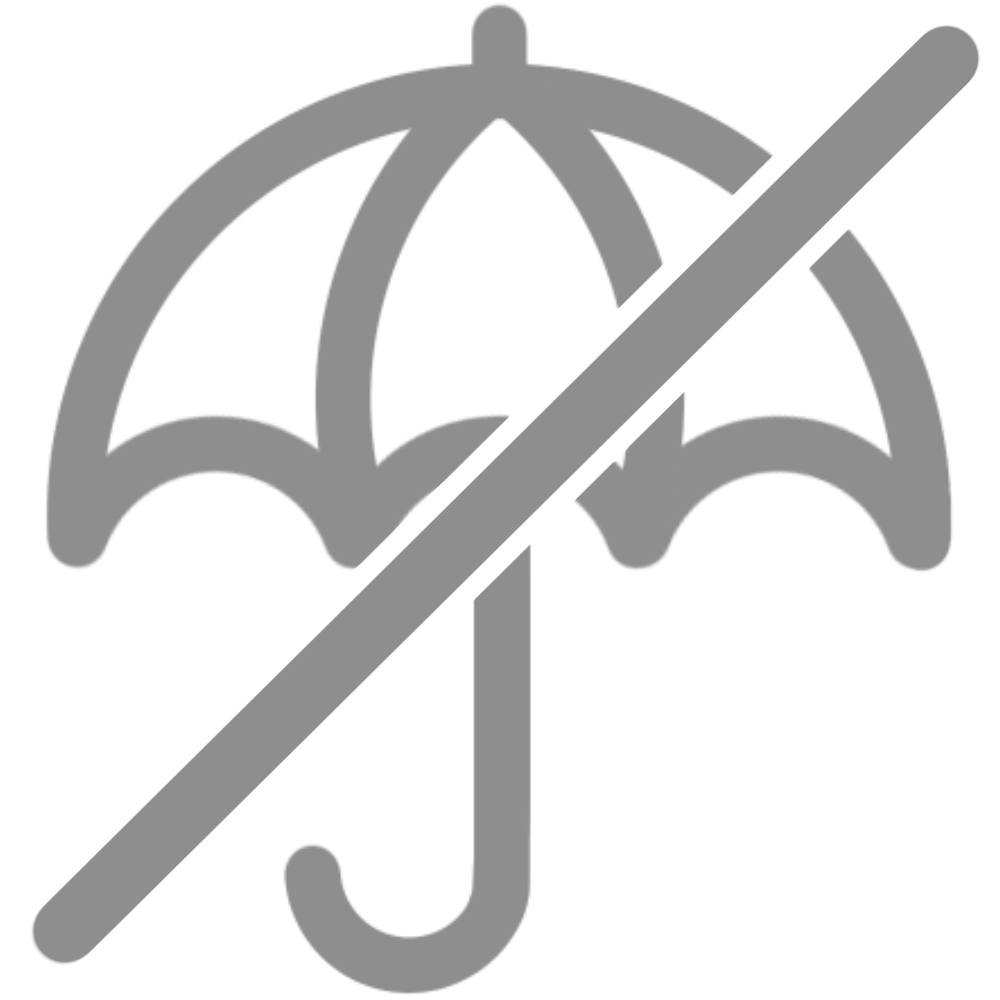
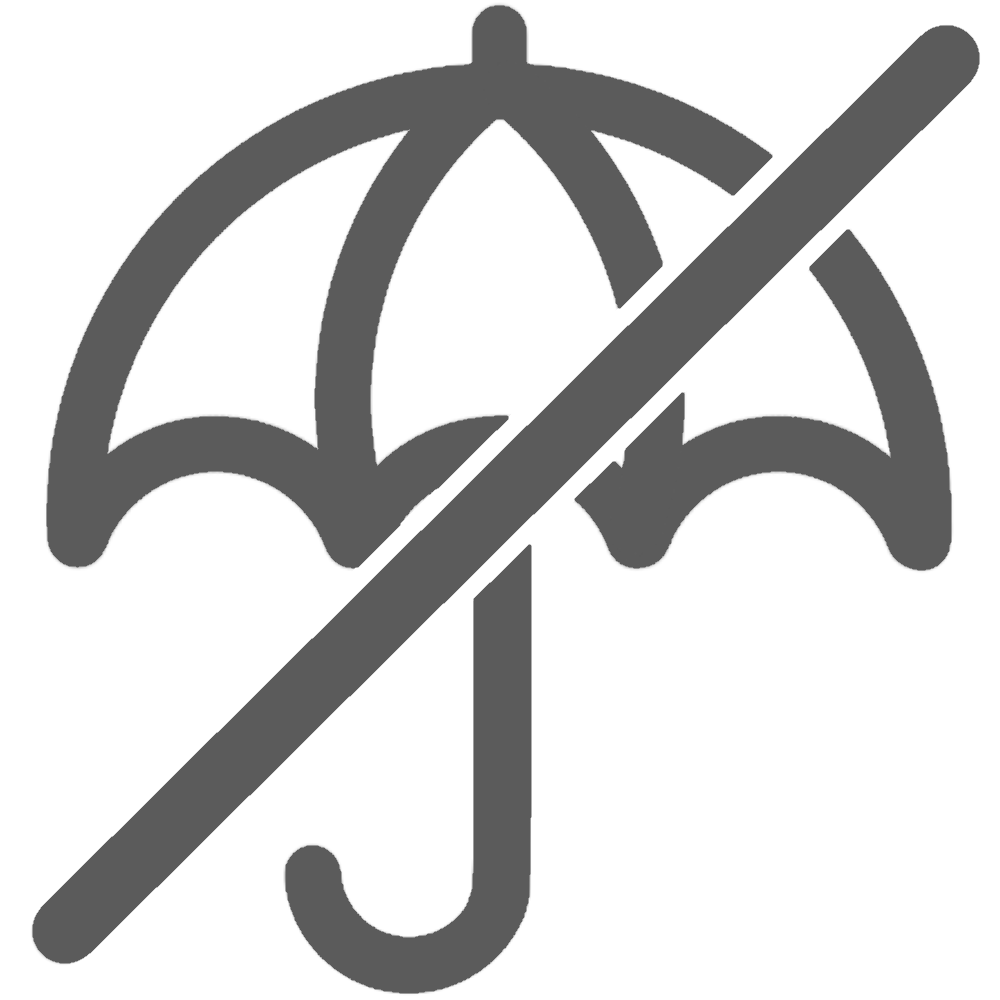
カラー表示に対応&表示の修正

Changed region(s): [[0.031, 0.0, 0.992, 1.0]]

diff --git a/js/index.js b/js/index.js
@@ -116,9 +116,14 @@ function getWeatherDescription(weatherCode) {
 }
 
 let day = 1 //yesterday = 0; today = 1; tommorow = 2;
+let colorIcon = true;
+let colorFont = true;
 function detail() {
     document.getElementById('latitude').textContent = locationData['latitude'];
     document.getElementById('longitude').textContent = locationData['longitude'];
+
+    document.getElementById('maxTempRound').style.color = colorFont ? "orangered" : "#5B5B5B";
+    document.getElementById('minTempRound').style.color = colorFont ? "#0d6efd" : "#5B5B5B";
 
     for (let i = 0; i < 2; i++) {
         document.getElementsByClassName('address')[i].textContent = locationData['address'];
@@ -127,7 +132,8 @@ function detail() {
     let weatherData = weatherDataList[day];
     let weatherDescription = getWeatherDescription(weatherData['weather_code']);
     if (weatherDescription.isUmbrellaRequired === 0) {
-        document.getElementById('image').innerHTML = '<img src="img/rain.png" alt="雨の画像" class="img-fluid mx-auto d-block" style="max-width: 100%; max-height: 200px; height: auto;">';
+        document.getElementById('image').innerHTML = 
+        colorIcon ? '<img src="img/rain_color.png" alt="雨の画像" class="img-fluid mx-auto d-block" style="max-width: 100%; max-height: 200px; height: auto;">' : '<img src="img/rain.png" alt="雨の画像" class="img-fluid mx-auto d-block" style="max-width: 100%; max-height: 200px; height: auto;">';
         document.getElementById('need').innerHTML = '<strong>傘が必要です</strong>';
     }
     else if (weatherDescription.isUmbrellaRequired === 1) {
@@ -135,11 +141,17 @@ function detail() {
         document.getElementById('need').innerHTML = '傘は不要です';
     }
     else {
-        document.getElementById('image').innerHTML = '<img src="img/snow.png" alt="雪の画像" class="img-fluid mx-auto d-block" style="max-width: 100%; max-height: 200px; height: auto;">';
+        document.getElementById('image').innerHTML = 
+        colorIcon ? '<img src="img/snow_color.png" alt="雪の画像" class="img-fluid mx-auto d-block" style="max-width: 100%; max-height: 200px; height: auto;">' : '<img src="img/snow.png" alt="雪の画像" class="img-fluid mx-auto d-block" style="max-width: 100%; max-height: 200px; height: auto;">';
         document.getElementById('need').innerHTML = '<strong>雪です</strong>';
     }
     document.getElementById('description').textContent = weatherDescription.description;
     document.getElementById('time').textContent = weatherData['time'];
+}
+
+function roundAndFormattTemp(temp) {
+    let roundedTemp = Math.round(temp);
+    return roundedTemp+'<small>℃</small>';
 }
 
 function today() {
@@ -152,12 +164,17 @@ function today() {
     if (minTempDiff >= 0) {
         minTempDiff = '+' + minTempDiff;
     }
-    for (let i = 0; i < 2; i++) {
-        document.getElementsByClassName('maxTemp')[i].textContent = todayData['temperature_2m_max'];
-        document.getElementsByClassName('maxTempDiff')[i].textContent = maxTempDiff;
-        document.getElementsByClassName('minTemp')[i].textContent = todayData['temperature_2m_min'];
-        document.getElementsByClassName('minTempDiff')[i].textContent = minTempDiff;    
-    }
+    let maxTempRound = roundAndFormattTemp(todayData['temperature_2m_max']);
+    let minTempRound = roundAndFormattTemp(todayData['temperature_2m_min']);
+    document.getElementById('maxTempRound').innerHTML = maxTempRound;
+    document.getElementById('minTempRound').innerHTML = minTempRound;
+    
+    document.getElementById('maxTemp').textContent = todayData['temperature_2m_max'];
+    document.getElementById('minTemp').textContent = todayData['temperature_2m_min'];
+    
+    document.getElementById('maxTempDiff').textContent = maxTempDiff;
+    document.getElementById('minTempDiff').textContent = minTempDiff;    
+
     document.getElementById('tomorrow').classList.add("border-bottom");
     document.getElementById('today').classList.remove("border-bottom");
     detail();
@@ -173,34 +190,20 @@ function tomorrow() {
     if (minTempDiff >= 0) {
         minTempDiff = '+' + minTempDiff;
     }
-    for (let i = 0; i < 2; i++) {
-        document.getElementsByClassName('maxTemp')[i].textContent = tomorrowData['temperature_2m_max'];
-        document.getElementsByClassName('maxTempDiff')[i].textContent = maxTempDiff;
-        document.getElementsByClassName('minTemp')[i].textContent = tomorrowData['temperature_2m_min'];
-        document.getElementsByClassName('minTempDiff')[i].textContent = minTempDiff;    
-    }
+    let maxTempRound = roundAndFormattTemp(tomorrowData['temperature_2m_max']);
+    let minTempRound = roundAndFormattTemp(tomorrowData['temperature_2m_min']);
+    document.getElementById('maxTempRound').innerHTML = maxTempRound;
+    document.getElementById('minTempRound').innerHTML = minTempRound;
+    
+    document.getElementById('maxTemp').textContent = tomorrowData['temperature_2m_max'];
+    document.getElementById('minTemp').textContent = tomorrowData['temperature_2m_min'];
+    
+    document.getElementById('maxTempDiff').textContent = maxTempDiff;
+    document.getElementById('minTempDiff').textContent = minTempDiff;    
+
     document.getElementById('today').classList.add("border-bottom");
     document.getElementById('tomorrow').classList.remove("border-bottom");
     detail();
-}
-
-function detailShow() {
-    document.getElementById('detail').classList.toggle("d-none");
-}
-
-let detailIconFlag = true;
-function detailIcon() {
-    detailIconFlag = !detailIconFlag;
-    const detailText = document.getElementById('detailText');
-    const detailIcon = document.getElementById('detailIcon');
-    if (detailIconFlag) {
-        detailText.textContent = '非表示';
-        detailIcon.innerHTML = '<i class="bi bi-question-circle text-secondary"></i>'
-    } else {
-        detailText.textContent = '表示';
-        detailIcon.innerHTML = '';
-        document.getElementById('detail').classList.add("d-none");
-    }
 }
 
 // ページが読み込まれたときに初期の住所で実行
@@ -215,4 +218,33 @@ document.getElementById('searchForm').addEventListener('submit', function(event)
     inputAddress = document.getElementById('searchInput').value;
 
     getWeather(inputAddress);
+
+    // ナビゲーションを閉じる
+    const myOffCanvas = document.getElementById('offcanvasNavbar');
+    let openedCanvas = bootstrap.Offcanvas.getInstance(myOffCanvas);
+    openedCanvas.hide();
 });
+
+let checkbox = document.getElementById('flexSwitchCheckReverse');
+checkbox.addEventListener('change', function() {
+    // チェックボックスがチェックされているかどうかを確認
+    if (checkbox.checked) {
+        // チェックされている場合の処理
+        document.getElementById('detail').classList.remove("d-none")
+    } else {
+        // チェックされていない場合の処理
+        document.getElementById('detail').classList.add("d-none")
+    }
+});;
+
+let checkbox2 = document.getElementById('flexSwitchCheckReverse2');
+checkbox2.addEventListener('change', function() {
+    colorIcon = !colorIcon;
+    detail();
+});;
+
+let checkbox3 = document.getElementById('flexSwitchCheckReverse3');
+checkbox3.addEventListener('change', function() {
+    colorFont = !colorFont;
+    detail();
+});;

diff --git a/index.html b/index.html
@@ -39,13 +39,12 @@
                                     </li>
                                     <li class="dropdown-item-text mt-2 mb-2">
                                         <div>＜画面の説明＞</div>
-                                        <div class="">　　<img src="img/rain.png" alt="雨の画像" class="m-2"
+                                        <div id="image_sample1">　　<img src="img/rain.png" alt="雨の画像" class="m-2"
                                                 style="width: 35px; height: 35px;"><span>傘が必要です</span></div>
                                         <div class="">　　<img src="img/no_rain.png" alt="傘の画像" class="m-2"
                                                 style="width: 35px; height: 35px;"><span>傘は不要です</span></div>
                                         <div class="">　　<img src="img/snow.png" alt="雪の画像" class="m-2"
                                                 style="width: 35px; height: 35px;"><span>雪です</span></div>
-                                        <div class="">　　（）内は前日との差を表します</div>
                                     </li>
                                     <li class="dropdown-item-text">
                                         <div>天気の詳細を確認したい場合は"<i class="bi bi-question-circle"></i>"をクリックしてください。</div>
@@ -61,10 +60,26 @@
                                     </li>
                                 </ul>
                             </li>
-                            <li class="nav-item">
-                                <button class="nav-link" onclick="detailIcon()">
-                                    <i class="bi bi-question-circle"></i> を<span id="detailText">非表示</span>
-                                </button>
+                            <li class="nav-item nav-link form-switch form-check-reverse container">
+                                <label class="row">
+                                    <div class="col-8 text-start">詳細を表示</div>
+                                    <div class="col-4 text-end"><input class="form-check-input" type="checkbox"
+                                            id="flexSwitchCheckReverse" checked></div>
+                            </label>
+                            </li>
+                            <li class="nav-item nav-link form-switch form-check-reverse container">
+                                <label class="row">
+                                    <div class="col-8 text-start">カラーアイコンを適用</div>
+                                    <div class="col-4 text-end"><input class="form-check-input" type="checkbox"
+                                            id="flexSwitchCheckReverse2" checked></div>
+                            </label>
+                            </li>
+                            <li class="nav-item nav-link form-switch form-check-reverse container">
+                                <label class="row">
+                                    <div class="col-8 text-start">カラーフォントを適用</div>
+                                    <div class="col-4 text-end"><input class="form-check-input" type="checkbox"
+                                            id="flexSwitchCheckReverse3" checked></div>
+                            </label>
                             </li>
                             <li class="nav-item">
                                 <div class="nav-link">場所の変更</div>
@@ -73,7 +88,7 @@
                         <form class="d-flex" role="search" id="searchForm">
                             <input class="form-control me-2" type="search" placeholder="例：東京都北区" aria-label="Search"
                                 id="searchInput">
-                            <button class="btn btn-outline-success" type="submit">Search</button>
+                            <button class="btn btn-outline-primary" type="submit">Search</button>
                         </form>
                         <small id="error" class="text-danger"></small>
                     </div>
@@ -100,29 +115,24 @@
                     <div class="col-6 p-4 text-center d-flex flex-column justify-content-around" id="image">
                     </div>
                     <div class="col-6 p-2 d-flex flex-column justify-content-around" style="height:230px;">
-                        <div class="border border-2 p-2">
-                            <p>最高気温</p>
-                            <p class="text-center"><span class="maxTemp"></span>℃（<span class="maxTempDiff"></span>℃）
-                            </p>
+                        <div class="">
+                            <div>最高気温</div>
+                            <div class="text-center" id="maxTempRound"></div>
                         </div>
-                        <div class="border border-2 p-2">
-                            <p>最低気温</p>
-                            <p class="text-center"><span class="minTemp"></span>℃（<span class="minTempDiff"></span>℃）
-                            </p>
+                        <div class="">
+                            <div>最低気温</div>
+                            <div class="text-center" id="minTempRound"></div>
                         </div>
                     </div>
+
                 </div>
-                <div class="row">
-                    <button onclick="detailShow();" id="detailIcon" class="text-end">
-                        <i class="bi bi-question-circle text-secondary"></i>
-                    </button>
-                </div>
-                <div class="row d-none mb-4" id="detail">
+                <div class="row mt-4 mb-4" id="detail">
                     <h6><span id="time"></span>　<span class="address"></span></h6>
                     <div>天気：<span id="description"></span>　<span id="need"></span></div>
-                    <div>最高気温：<span class="maxTemp"></span>℃（前日との差<span class="maxTempDiff"></span>℃）</div>
-                    <div>最低気温：<span class="minTemp"></span>℃（前日との差<span class="minTempDiff"></span>℃）</div>
-                    <small class="mt-3 text-secondary">緯度：<span id="latitude"></span>　経度：<span id="longitude"></span></small>
+                    <div>最高気温：<span id="maxTemp"></span>℃（前日との差<span id="maxTempDiff"></span>℃）</div>
+                    <div>最低気温：<span id="minTemp"></span>℃（前日との差<span id="minTempDiff"></span>℃）</div>
+                    <small class="mt-3 text-secondary">緯度：<span id="latitude"></span>　経度：<span
+                            id="longitude"></span></small>
                 </div>
             </div>
 

diff --git a/css/index.css b/css/index.css
@@ -1,3 +1,5 @@
+@import url('https://fonts.googleapis.com/css2?family=Noto+Sans+JP:wght@700&display=swap');
+
 button {
     padding: 0;
     border: none;
@@ -6,4 +8,30 @@ button {
     color: inherit;
     background: none;
     border: 5px;
+}
+#maxTempRound {
+    white-space: pre;
+    color: orangered;
+    font-size: 300%;
+    font-family: 'Noto Sans JP', sans-serif;
+}
+#minTempRound {
+    white-space: pre;
+    color: #0d6efd;
+    font-size: 300%;
+    font-family: 'Noto Sans JP', sans-serif;
+}
+input[type="checkbox"]{
+    transform: scale(1.5);
+}
+nav {
+    color: black;
+}
+#image_sample1 img {
+    width: 35px;
+    height: 35px;
+}
+#image_sample3 img {
+    width: 35px;
+    height: 35px;
 }
